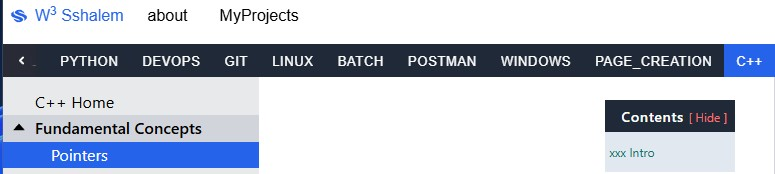
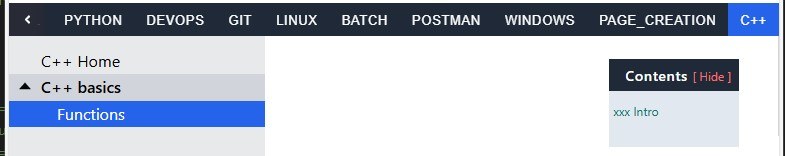
08-10-2025  4:05

diff --git a/src/pages/PageCreate/PageCreateComponents/SpecificationDocsPkg/CreateStepsSection/CreateStep8.tsx b/src/pages/PageCreate/PageCreateComponents/SpecificationDocsPkg/CreateStepsSection/CreateStep8.tsx
@@ -39,15 +39,8 @@ const CreateStep8 = ({ anchor }: { anchor: string }) => {
           <JsxHighlight jsxCode={jsxCode_section_internal_code}></JsxHighlight>
         </li> */}
         <li className="my-1">
-          Import to <SpanBlue>FunctionsMain.tsx</SpanBlue> component , the 2 new components I created
-          <ul className="my-2 ml-8 list-disc">
-            <li className="my-1">
-              <SpanGreen>FunctionsIntro.tsx</SpanGreen>
-            </li>
-            <li className="my-1">
-              <SpanGreen>FunctionsTwo.tsx</SpanGreen>
-            </li>
-          </ul>
+          Import to <SpanBlue>FunctionsMain.tsx</SpanBlue> component , the 2 new components I created (<SpanGreen>FunctionsIntro.tsx</SpanGreen>and
+          <SpanGreen>FunctionsTwo.tsx</SpanGreen>)
         </li>
         <JsxHighlight jsxCode={jsxCode_import}></JsxHighlight>
         The code above show , the <strong>content</strong> of each section {`->`} cool. <br />
@@ -56,16 +49,22 @@ const CreateStep8 = ({ anchor }: { anchor: string }) => {
         <li className="my-1">
           let's fill the <SpanBlue>content menu</SpanBlue> and the title of each section.
           <ul className="my-2 ml-8 list-disc">
-            <li>create content menu variables</li>
+            <li>
+              In <SpanGreen>FunctionsMain.tsx</SpanGreen> create variables for the content menu
+            </li>
             <JsxHighlight jsxCode={jsxCode_content_menu_variables}></JsxHighlight>
-            <li>Update anchorList with content menu</li>
+            <li>
+              In <SpanGreen>FunctionsMain.tsx</SpanGreen> Update anchorList with content menu variables
+            </li>
             <JsxHighlight jsxCode={jsxCode_Update_anchorList}></JsxHighlight>
-            <li>Update Components with the refered content menu variable</li>
+            <li>
+              In <SpanGreen>FunctionsMain.tsx</SpanGreen> Update Components with the refered content menu variable
+            </li>
             <JsxHighlight jsxCode={jsxCode_update_components}></JsxHighlight>
           </ul>
         </li>
         <div className="my-1">
-          <SpanBlue>PointersMain.tsx</SpanBlue> final code
+          <SpanBlue>FunctionsMain.tsx</SpanBlue> final code
         </div>
         <JsxHighlight jsxCode={jsxCode_Pointers_Main} />
         Now, we get the layout as presented in the beginning of the Section.
@@ -162,36 +161,36 @@ const jsxCode_import = `  return (
     </section>
   );`;
 
-const jsxCode_content_menu_variables = `const pointers_intro = "pointers intro";
-const pointers_two = "pointers two";`;
+const jsxCode_content_menu_variables = `const functions_intro = "functions intro";
+const functions_two = "functions two";`;
 
-const jsxCode_Update_anchorList = `const pointers_intro = "pointers intro";
-const pointers_two = "pointers two";`;
+const jsxCode_Update_anchorList = `const anchorList: string[] = [functions_intro, functions_two];`;
 
 const jsxCode_update_components = `      <PointersIntro anchor={pointers_intro}></PointersIntro>
       <PointersTwo anchor={pointers_two}></PointersTwo>`;
 
 const jsxCode_Pointers_Main = `import { useEffect, useRef, useState } from "react";
 import { ContentMenu } from "../../../../../components";
-import PointersIntro from "./PointersIntro";
-import PointersTwo from "./PointersTwo";
+import FunctionsIntro from "./FunctionsIntro";
+import FunctionsTwo from "./FunctionsTwo";
 
 // ===========================================
 // ==     content menu (title name)         ==
 // ===========================================
 
-const pointers_intro = "pointers intro";
-const pointers_two = "pointers two";
+const functions_intro = "functions intro";
+const functions_two = "functions two";
 
 // ===========================================
 // == Update anchorList with  content menu  ==
 // ===========================================
 
-const anchorList: string[] = [pointers_intro, pointers_two];
+const anchorList: string[] = [functions_intro, functions_two];
 
 // ============================================
 // ============================================
-const PointersMain = () => {
+
+const FunctionsMain = () => {
   const [showContent, setShowContent] = useState<boolean>(true);
   const [contentHeight, setContentHeight] = useState<number>();
 
@@ -223,14 +222,10 @@ const PointersMain = () => {
         ulRef={ulRef}
       />
       {/* End Contents */}
-
-      <PointersIntro anchor={pointers_intro}></PointersIntro>
-      <PointersTwo anchor={pointers_two}></PointersTwo>
-
+      <FunctionsIntro anchor={functions_intro} />
+      <FunctionsTwo anchor={functions_two} />
       <div className="my-8 h-4">{/* {this div is only for dividing} */}</div>
     </section>
   );
 };
-
-export default PointersMain;
-`;
+export default FunctionsMain;`;

diff --git a/src/pages/Cpp/CppComponents/CppBasicsPkg/FunctionsSections/FunctionsMain.tsx b/src/pages/Cpp/CppComponents/CppBasicsPkg/FunctionsSections/FunctionsMain.tsx
@@ -1,9 +1,14 @@
 import { useEffect, useRef, useState } from "react";
 import { ContentMenu } from "../../../../../components";
+import FunctionsIntro from "./FunctionsIntro";
+import FunctionsTwo from "./FunctionsTwo";
 
 // ===========================================
 // ==     content menu (title name)         ==
 // ===========================================
+
+// const functions_intro = "functions intro";
+// const functions_two = "functions two";
 
 const xxx_intro = "xxx Intro";
 
@@ -11,8 +16,8 @@ const xxx_intro = "xxx Intro";
 // == Update anchorList with  content menu  ==
 // ===========================================
 
+// const anchorList: string[] = [functions_intro, functions_two];
 const anchorList: string[] = [xxx_intro];
-
 // ============================================
 // ============================================
 
@@ -48,9 +53,8 @@ const FunctionsMain = () => {
         ulRef={ulRef}
       />
       {/* End Contents */}
-
-      {/* <XXXIntro anchor={xxx_intro} /> */}
-
+      {/* <FunctionsIntro anchor={functions_intro} />
+      <FunctionsTwo anchor={functions_two} /> */}
       <div className="my-8 h-4">{/* {this div is only for dividing} */}</div>
     </section>
   );
